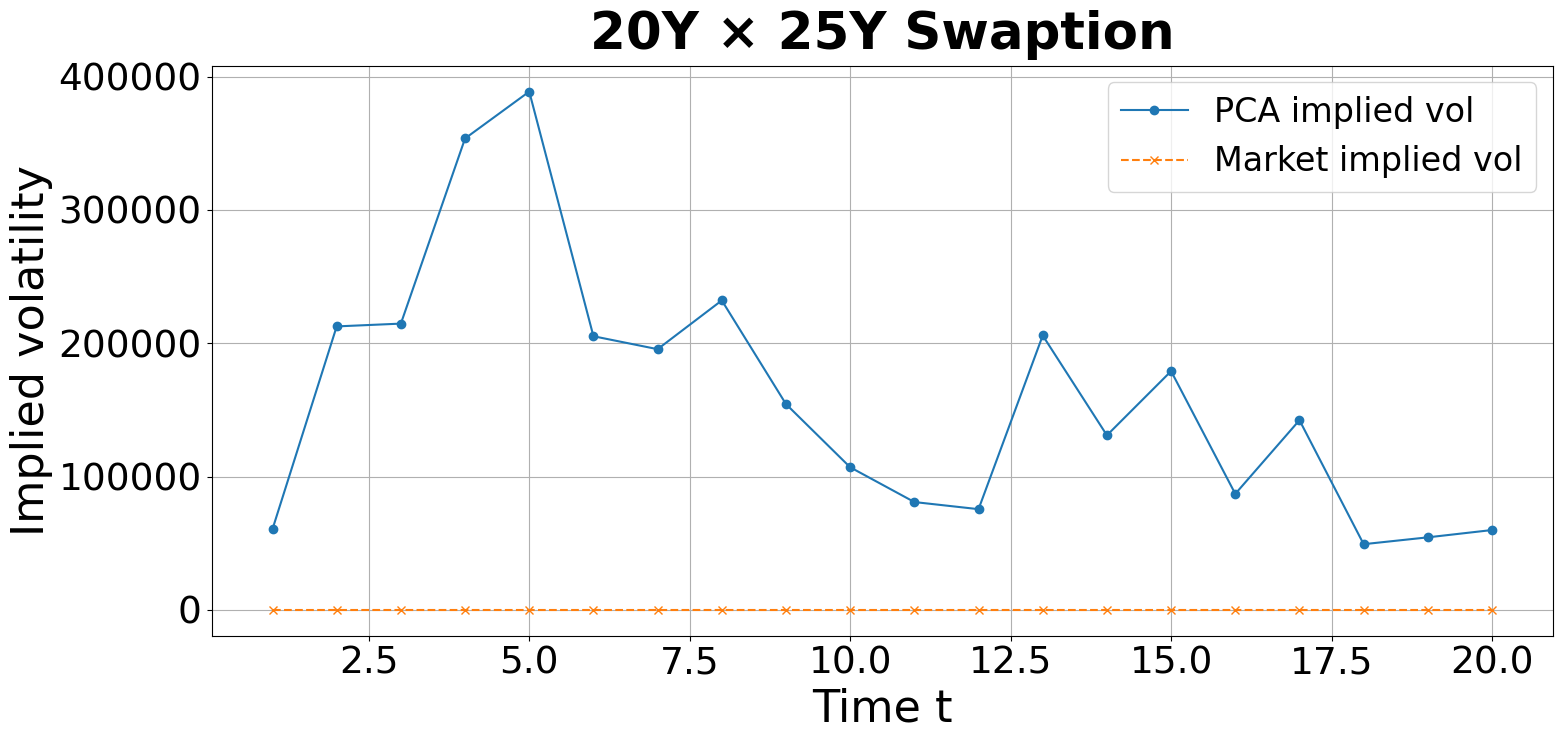
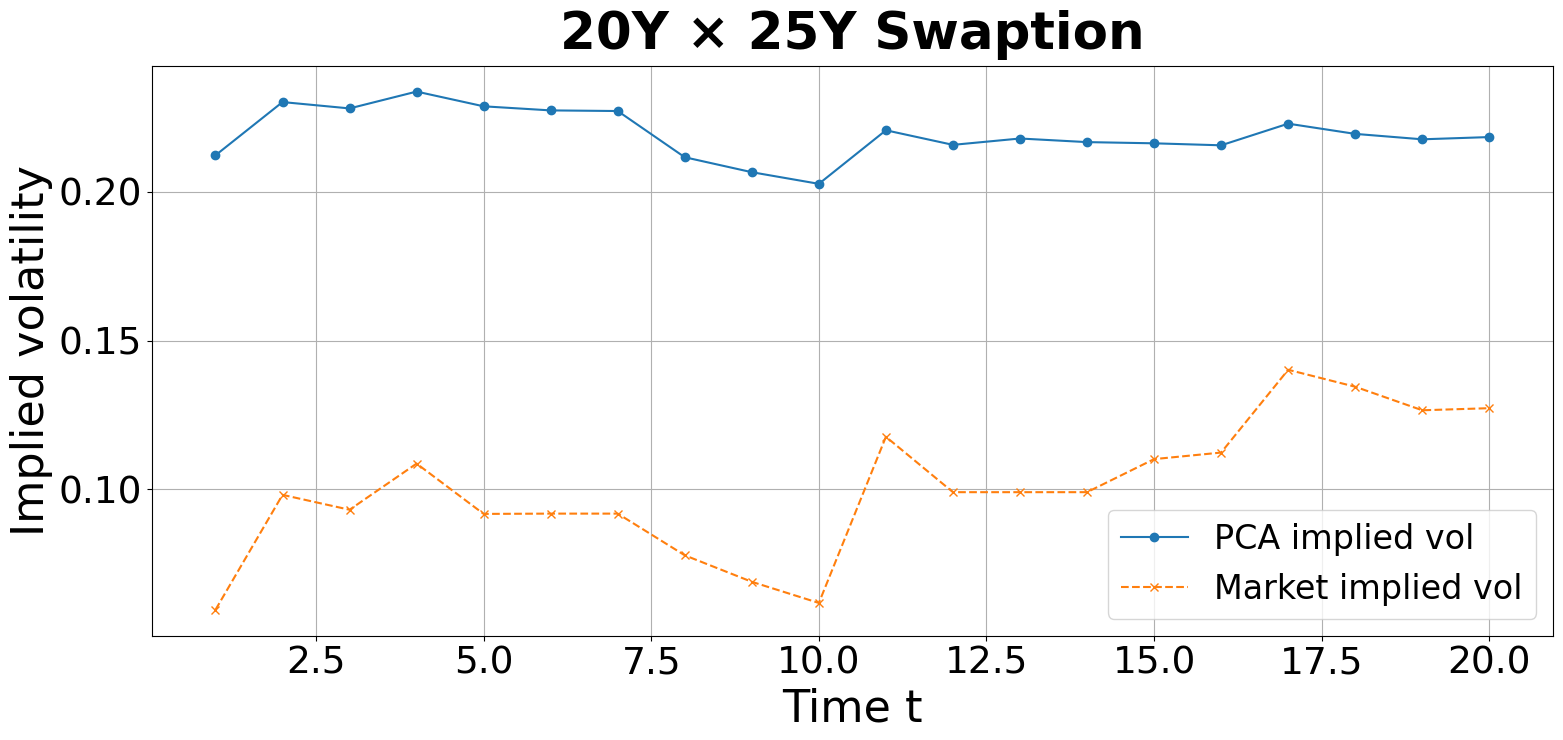
push this

diff --git a/Chapter 5/implied_volatility_computation/implied_vol.py b/Chapter 5/implied_volatility_computation/implied_vol.py
@@ -19,7 +19,7 @@ def implied_vol(F0, K, T, annuity, market_price, flag="c", tol=1e-5, max_iter=10
         sigma -= diff / v_sigma
     return sigma if sigma >= 0 else np.nan
 
-T = 3.0 / 12.0 # option expiry
+T = 240.0 / 12.0 # option expiry
 
 pca_path   = r"Chapter 5\implied_volatility_computation\data\vae_20Y25Y_implied_volatility.csv"
 libor_path = r"Chapter 5\bloomberg_data\LIBOR_swaption_20Y25Y.csv"
